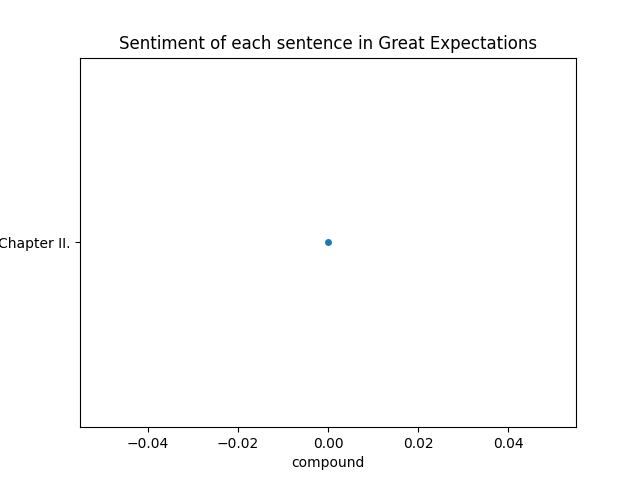
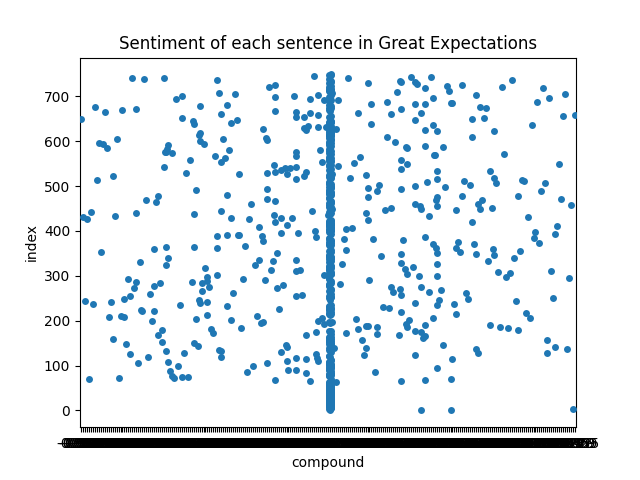
main: Updated

diff --git a/starting_files/sentiment_analysis.py b/starting_files/sentiment_analysis.py
@@ -9,19 +9,19 @@ from nltk.sentiment.vader import SentimentIntensityAnalyzer
 from nltk.tokenize import sent_tokenize
 import seaborn as sns
 import matplotlib.pyplot as plt
+import re
+
+
+import requests
+import re
 
 def get_book():
     """
     get_book Use the Gutenberg Project API to get the text of the book.
     """
     book = requests.get('http://www.gutenberg.org/files/1400/1400-0.txt').text
-    # just get the first chapter for now which is the second occurrence of 'Chapter I' to the second occurrence of 'Chapter II'
-    # second occurrence of 'Chapter I' is second element of find all 'Chapter I'
-    start = book.find_all('Chapter I')[1]
-    end = book.find_all('Chapter II')[1]
-    book = book[start:end]
-    print(book)
-    return book
+    return book[0:100000]
+
 
 def tokenize(book):
     """
@@ -43,10 +43,14 @@ def get_sentiment(sentences):
 
 def swarm_plot(sentiment_scores):
     """
-    swarm_plot Use the seaborn library to plot the sentiment of each sentence as a swarm plot.
+    swarm_plot Use the seaborn library to plot the sentiment of each sentence as a swarm plot. Use the matplotlib library to add a title to the plot. Use the matplotlib library to save the plot as a png file. y-axis is the index of the sentence, x-axis is the sentiment score
     """
     df = pd.DataFrame(sentiment_scores)
-    sns.swarmplot(x='compound', y='sentence', data=df)
+    df['index'] = df.index
+    sns.swarmplot(x='compound', y='index', data=df)
+    add_title()
+    save_plot()
+
 
 def add_title():
     """
